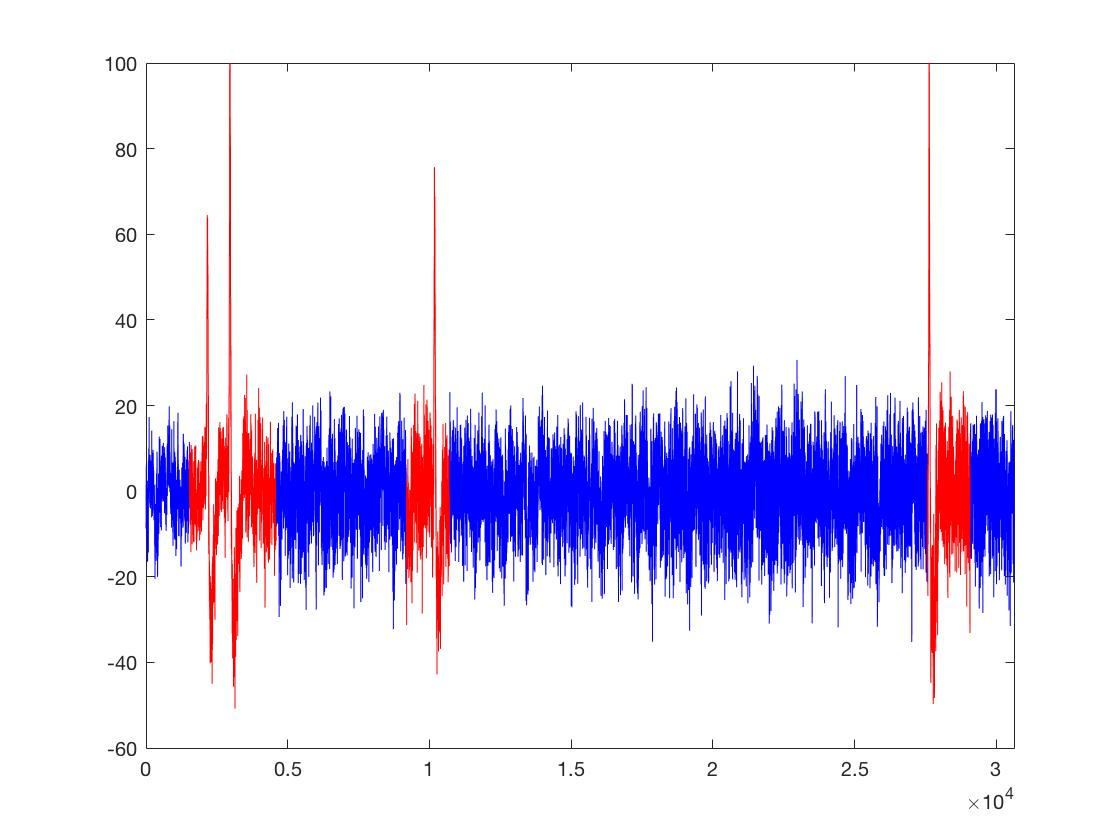
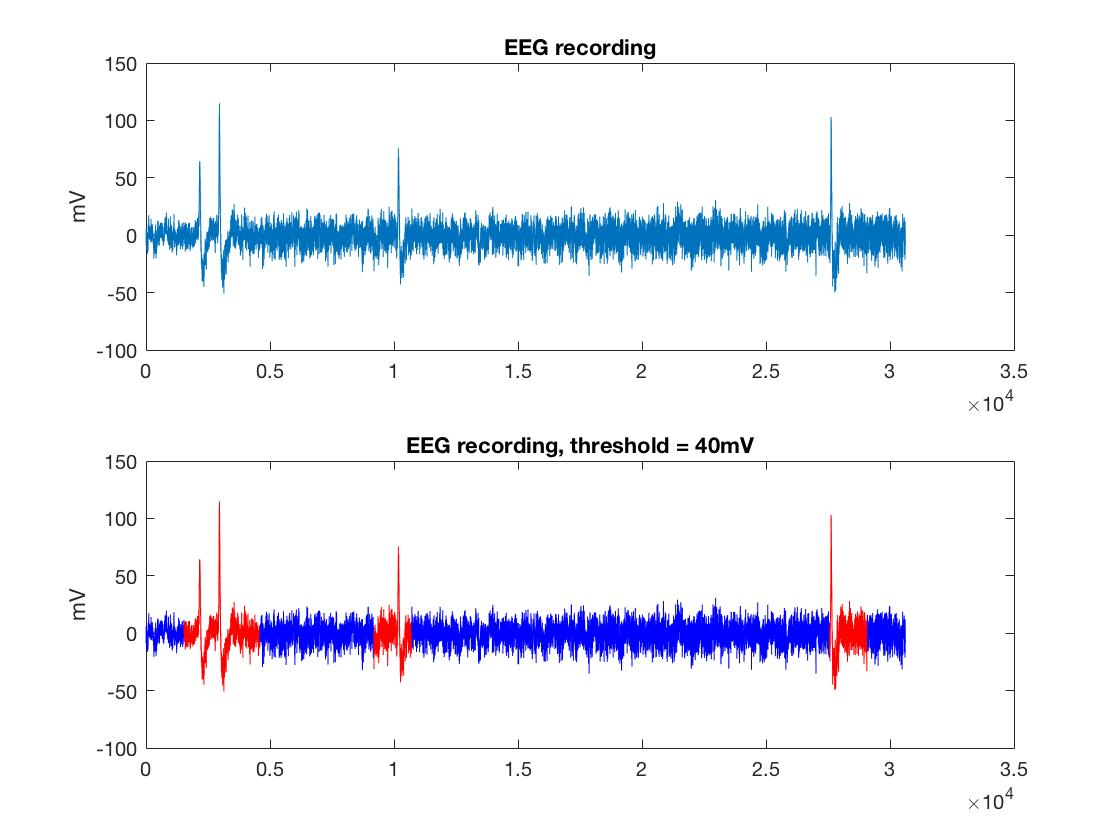
Add windowing

diff --git a/Session 1 - Code files/eeg_recording.m b/Session 1 - Code files/eeg_recording.m
@@ -3,12 +3,12 @@ clear;
 close;
 clc;
 
-load('/Users/tbancel/Desktop/MS_BME/UE 3.6-7 BCI/matlab-signal-processing/artefact_1.mat')
+load('artefact_1.mat')
 data = s_EEG.data;
 Fp1=data(1,:)
-plot(Fp1);
+% plot(Fp1);
 
-sample_length=length(Fp1)
+sample_length=length(Fp1);
 epoch_number = 20;
 epoch_length=sample_length/epoch_number;
 epochs=[];
@@ -26,6 +26,13 @@ epochs_label=[]
 
 % plotting the epochs with the right color
 figure
+
+subplot(2,1,1)
+plot(Fp1);
+title("EEG recording")
+ylabel("mV")
+
+subplot(2,1,2)
 for i=0:(epoch_number-1),
     if max(abs(epochs(i+1,:)))>40,
         epochs_label(i+1)=0;
@@ -35,7 +42,34 @@ for i=0:(epoch_number-1),
         color = 'b';
     end
     X=(i*epoch_length+1):((i+1)*epoch_length);
-    plot(X,epochs(i+1,:), color), axis([0 30620 -60 100]);
+    plot(X,epochs(i+1,:), color), axis([0 35000 -100 150]);
     hold on
 end   
+title("EEG recording, threshold = 40mV")
+ylabel("mV")
+
+%% hamming windowing
+
+h_window=hamming(epoch_length);
+epochs_windowed = [];
+diff = [];
+
+figure
+
+subplot(2,1,1)
+plot(Fp1);
+title("EEG recording")
+ylabel("mV")
+
+subplot(2,1,2)
+for i=0:(epoch_number-1),
+    epochs_windowed(i+1,:)=epochs(i+1,:).*transpose(h_window);
+    diff(i+1,:)=epochs(i+1,:)-epochs_windowed(i+1,:);
+    X=(i*epoch_length+1):((i+1)*epoch_length);
+    plot(X,epochs_windowed(i+1,:)), axis([0 35000 -100 150]);
+    hold on
+end   
+title("Epoched signal")
+ylabel("mV")
+
 

diff --git a/Sessions 2 - Code files/session_2.m b/Sessions 2 - Code files/session_2.m
@@ -1,0 +1,2 @@
+%% session2
+
